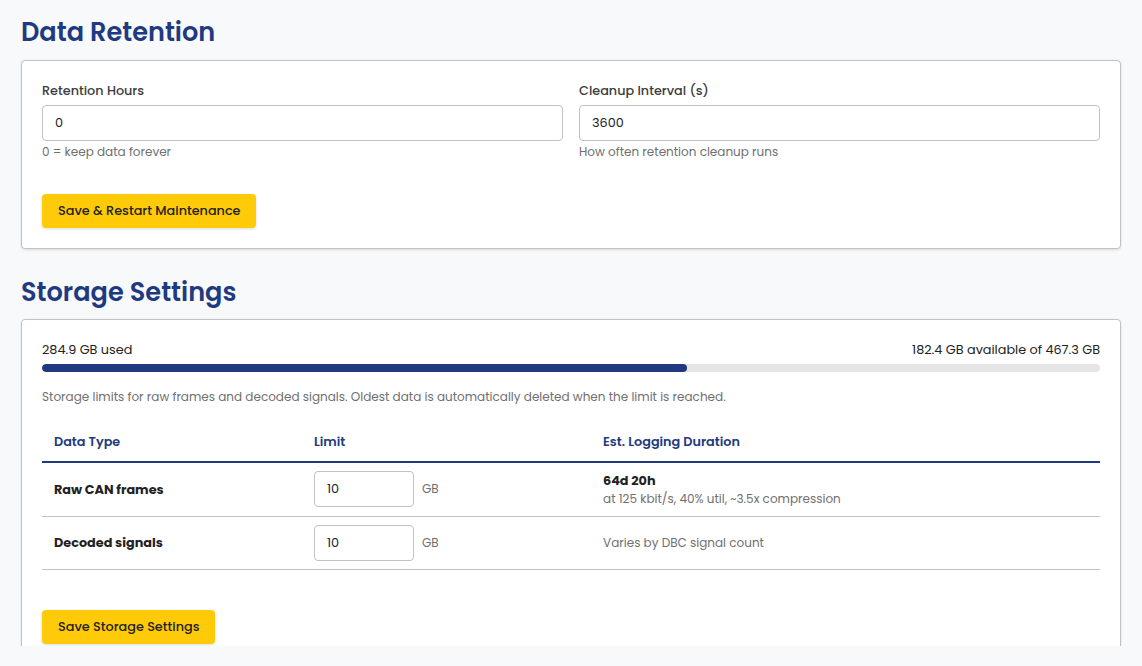
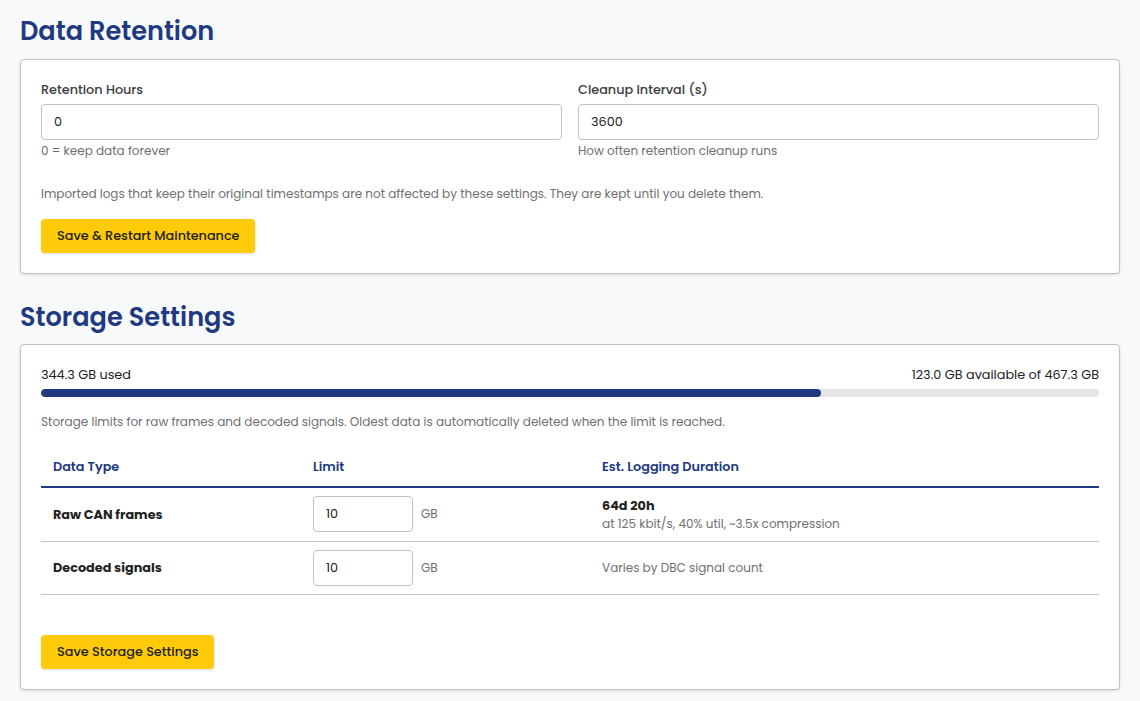
docs: note that retention does not delete imported logs
Retention now prunes on frame time rather than on when a row was written.
An imported log that keeps its original timestamps is older than any
retention window the moment it lands, so it is exempted from the sweep
and kept until the user deletes it. Logs shifted to the current time age
out like live capture.

Someone setting a retention window expecting bounded growth had no way
to learn that imports do not count against it.

The portal states this on the settings screen itself, which is where the
decision is made. It is repeated here because in the docs it would
otherwise exist only inside a screenshot — invisible to search and to
screen readers.

Screenshot re-captured for the new line.

🤖 Generated with [Claude Code](https://claude.com/claude-code)

https://claude.ai/code/session_01QxvJtn2BSofWLVi4XsAMC9

diff --git a/docs/portal/analyzer-settings.md b/docs/portal/analyzer-settings.md
@@ -20,4 +20,7 @@ Configure anomaly-detection thresholds and data retention. Open it from
 Set how long data is kept, and storage limits for raw frames and decoded
 signals. Oldest data is automatically deleted when a limit is reached.
 
+Imported logs that keep their original timestamps are not affected by the
+retention setting. They are kept until you delete them.
+
 ![Analyzer Settings: retention and storage](../images/portal/analyzer-settings/retention-storage.png)
